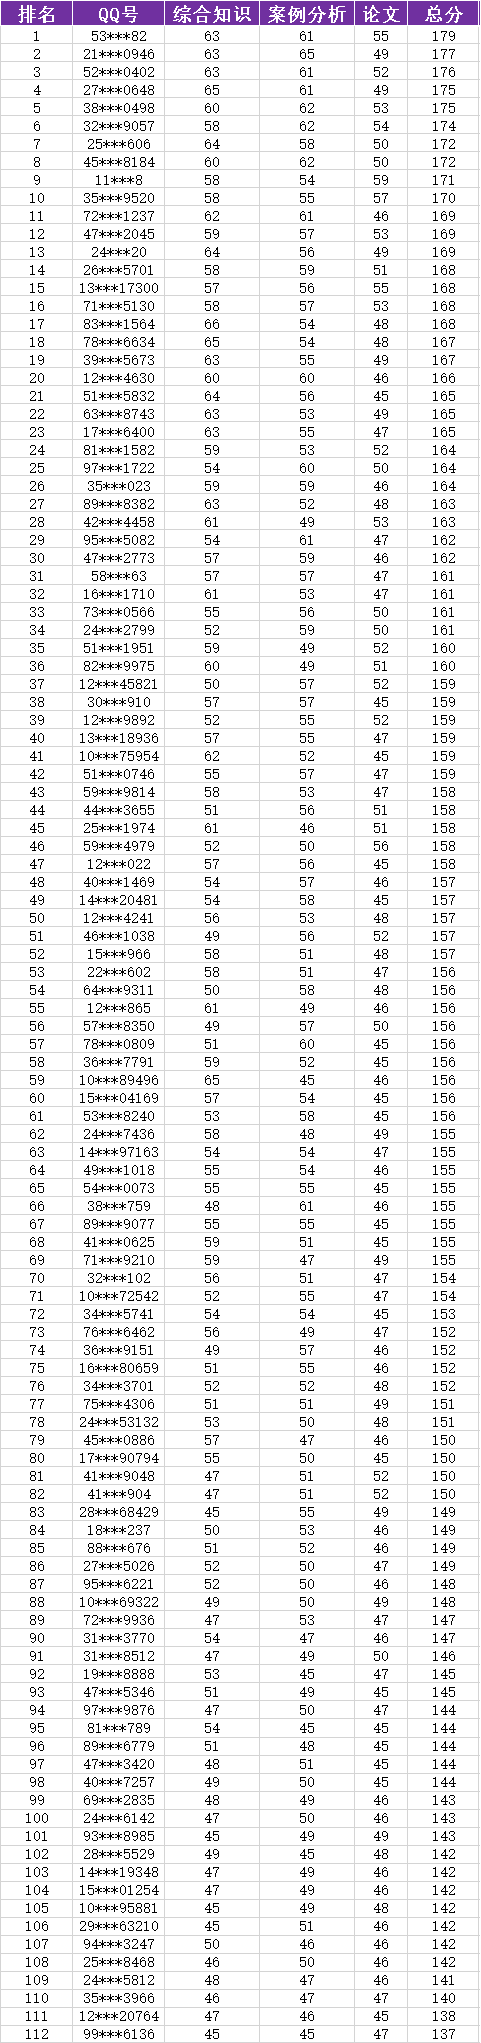
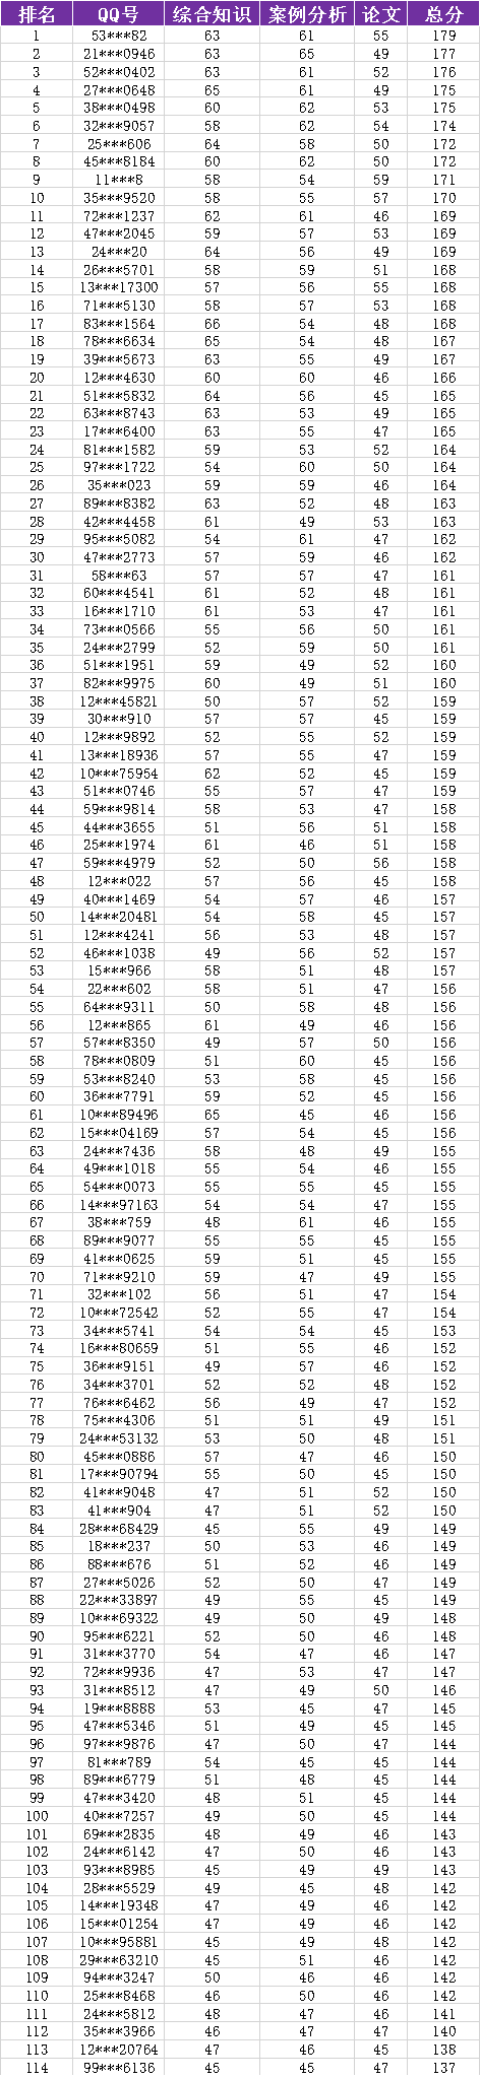
群通过人数

Changed region(s): [[0.0, 0.0, 0.9979, 1.0]]

diff --git a/群通过率/2020下半年/2020.md b/群通过率/2020下半年/2020.md
@@ -12,3 +12,123 @@
  </kbd> 
  </div>
 
+
+- **通过列表**
+
+
+| 排名 |    QQ号    | 综合知识 | 案例分析 | 论文 | 总分 |
+|:----:|:----------:|:--------:|:--------:|:----:|:----:|
+|   1  |   53***82  |    63    |    61    |  55  |  179 |
+|   2  |  21***0946 |    63    |    65    |  49  |  177 |
+|   3  |  52***0402 |    63    |    61    |  52  |  176 |
+|   4  |  27***0648 |    65    |    61    |  49  |  175 |
+|   5  |  38***0498 |    60    |    62    |  53  |  175 |
+|   6  |  32***9057 |    58    |    62    |  54  |  174 |
+|   7  |  25***606  |    64    |    58    |  50  |  172 |
+|   8  |  45***8184 |    60    |    62    |  50  |  172 |
+|   9  |   11***8   |    58    |    54    |  59  |  171 |
+|  10  |  35***9520 |    58    |    55    |  57  |  170 |
+|  11  |  72***1237 |    62    |    61    |  46  |  169 |
+|  12  |  47***2045 |    59    |    57    |  53  |  169 |
+|  13  |   24***20  |    64    |    56    |  49  |  169 |
+|  14  |  26***5701 |    58    |    59    |  51  |  168 |
+|  15  | 13***17300 |    57    |    56    |  55  |  168 |
+|  16  |  71***5130 |    58    |    57    |  53  |  168 |
+|  17  |  83***1564 |    66    |    54    |  48  |  168 |
+|  18  |  78***6634 |    65    |    54    |  48  |  167 |
+|  19  |  39***5673 |    63    |    55    |  49  |  167 |
+|  20  |  12***4630 |    60    |    60    |  46  |  166 |
+|  21  |  51***5832 |    64    |    56    |  45  |  165 |
+|  22  |  63***8743 |    63    |    53    |  49  |  165 |
+|  23  |  17***6400 |    63    |    55    |  47  |  165 |
+|  24  |  81***1582 |    59    |    53    |  52  |  164 |
+|  25  |  97***1722 |    54    |    60    |  50  |  164 |
+|  26  |  35***023  |    59    |    59    |  46  |  164 |
+|  27  |  89***8382 |    63    |    52    |  48  |  163 |
+|  28  |  42***4458 |    61    |    49    |  53  |  163 |
+|  29  |  95***5082 |    54    |    61    |  47  |  162 |
+|  30  |  47***2773 |    57    |    59    |  46  |  162 |
+|  31  |   58***63  |    57    |    57    |  47  |  161 |
+|  32  |  60***4541 |    61    |    52    |  48  |  161 |
+|  33  |  16***1710 |    61    |    53    |  47  |  161 |
+|  34  |  73***0566 |    55    |    56    |  50  |  161 |
+|  35  |  24***2799 |    52    |    59    |  50  |  161 |
+|  36  |  51***1951 |    59    |    49    |  52  |  160 |
+|  37  |  82***9975 |    60    |    49    |  51  |  160 |
+|  38  | 12***45821 |    50    |    57    |  52  |  159 |
+|  39  |  30***910  |    57    |    57    |  45  |  159 |
+|  40  |  12***9892 |    52    |    55    |  52  |  159 |
+|  41  | 13***18936 |    57    |    55    |  47  |  159 |
+|  42  | 10***75954 |    62    |    52    |  45  |  159 |
+|  43  |  51***0746 |    55    |    57    |  47  |  159 |
+|  44  |  59***9814 |    58    |    53    |  47  |  158 |
+|  45  |  44***3655 |    51    |    56    |  51  |  158 |
+|  46  |  25***1974 |    61    |    46    |  51  |  158 |
+|  47  |  59***4979 |    52    |    50    |  56  |  158 |
+|  48  |  12***022  |    57    |    56    |  45  |  158 |
+|  49  |  40***1469 |    54    |    57    |  46  |  157 |
+|  50  | 14***20481 |    54    |    58    |  45  |  157 |
+|  51  |  12***4241 |    56    |    53    |  48  |  157 |
+|  52  |  46***1038 |    49    |    56    |  52  |  157 |
+|  53  |  15***966  |    58    |    51    |  48  |  157 |
+|  54  |  22***602  |    58    |    51    |  47  |  156 |
+|  55  |  64***9311 |    50    |    58    |  48  |  156 |
+|  56  |  12***865  |    61    |    49    |  46  |  156 |
+|  57  |  57***8350 |    49    |    57    |  50  |  156 |
+|  58  |  78***0809 |    51    |    60    |  45  |  156 |
+|  59  |  53***8240 |    53    |    58    |  45  |  156 |
+|  60  |  36***7791 |    59    |    52    |  45  |  156 |
+|  61  | 10***89496 |    65    |    45    |  46  |  156 |
+|  62  | 15***04169 |    57    |    54    |  45  |  156 |
+|  63  |  24***7436 |    58    |    48    |  49  |  155 |
+|  64  |  49***1018 |    55    |    54    |  46  |  155 |
+|  65  |  54***0073 |    55    |    55    |  45  |  155 |
+|  66  | 14***97163 |    54    |    54    |  47  |  155 |
+|  67  |  38***759  |    48    |    61    |  46  |  155 |
+|  68  |  89***9077 |    55    |    55    |  45  |  155 |
+|  69  |  41***0625 |    59    |    51    |  45  |  155 |
+|  70  |  71***9210 |    59    |    47    |  49  |  155 |
+|  71  |  32***102  |    56    |    51    |  47  |  154 |
+|  72  | 10***72542 |    52    |    55    |  47  |  154 |
+|  73  |  34***5741 |    54    |    54    |  45  |  153 |
+|  74  | 16***80659 |    51    |    55    |  46  |  152 |
+|  75  |  36***9151 |    49    |    57    |  46  |  152 |
+|  76  |  34***3701 |    52    |    52    |  48  |  152 |
+|  77  |  76***6462 |    56    |    49    |  47  |  152 |
+|  78  |  75***4306 |    51    |    51    |  49  |  151 |
+|  79  | 24***53132 |    53    |    50    |  48  |  151 |
+|  80  |  45***0886 |    57    |    47    |  46  |  150 |
+|  81  | 17***90794 |    55    |    50    |  45  |  150 |
+|  82  |  41***9048 |    47    |    51    |  52  |  150 |
+|  83  |  41***904  |    47    |    51    |  52  |  150 |
+|  84  | 28***68429 |    45    |    55    |  49  |  149 |
+|  85  |  18***237  |    50    |    53    |  46  |  149 |
+|  86  |  88***676  |    51    |    52    |  46  |  149 |
+|  87  |  27***5026 |    52    |    50    |  47  |  149 |
+|  88  | 22***33897 |    49    |    55    |  45  |  149 |
+|  89  | 10***69322 |    49    |    50    |  49  |  148 |
+|  90  |  95***6221 |    52    |    50    |  46  |  148 |
+|  91  |  31***3770 |    54    |    47    |  46  |  147 |
+|  92  |  72***9936 |    47    |    53    |  47  |  147 |
+|  93  |  31***8512 |    47    |    49    |  50  |  146 |
+|  94  |  19***8888 |    53    |    45    |  47  |  145 |
+|  95  |  47***5346 |    51    |    49    |  45  |  145 |
+|  96  |  97***9876 |    47    |    50    |  47  |  144 |
+|  97  |  81***789  |    54    |    45    |  45  |  144 |
+|  98  |  89***6779 |    51    |    48    |  45  |  144 |
+|  99  |  47***3420 |    48    |    51    |  45  |  144 |
+|  100 |  40***7257 |    49    |    50    |  45  |  144 |
+|  101 |  69***2835 |    48    |    49    |  46  |  143 |
+|  102 |  24***6142 |    47    |    50    |  46  |  143 |
+|  103 |  93***8985 |    45    |    49    |  49  |  143 |
+|  104 |  28***5529 |    49    |    45    |  48  |  142 |
+|  105 | 14***19348 |    47    |    49    |  46  |  142 |
+|  106 | 15***01254 |    47    |    49    |  46  |  142 |
+|  107 | 10***95881 |    45    |    49    |  48  |  142 |
+|  108 | 29***63210 |    45    |    51    |  46  |  142 |
+|  109 |  94***3247 |    50    |    46    |  46  |  142 |
+|  110 |  25***8468 |    46    |    50    |  46  |  142 |
+|  111 |  24***5812 |    48    |    47    |  46  |  141 |
+|  112 |  35***3966 |    46    |    47    |  47  |  140 |
+|  113 | 12***20764 |    47    |    46    |  45  |  138 |
+|  114 |  99***6136 |    45    |    45    |  47  |  137 |
